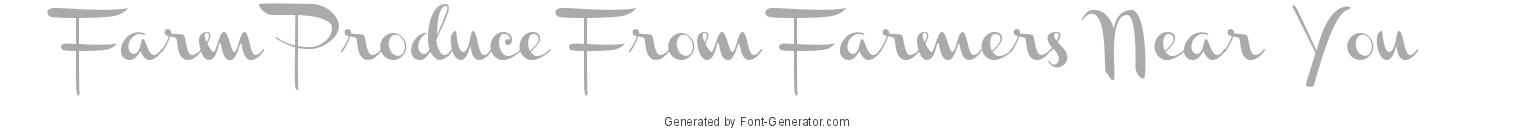
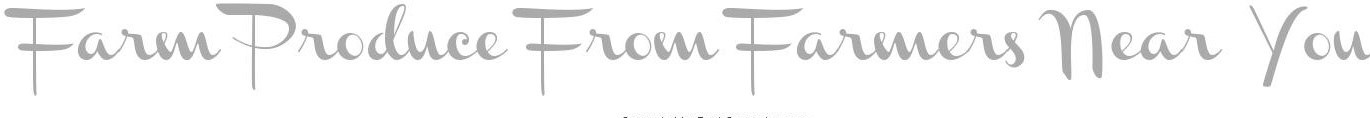
index page

diff --git a/style.css b/style.css
@@ -199,42 +199,19 @@ header .nav-login a {
     text-align:center;
 }
 
-.example0 {
-    background: url(image/short.jpg);
-    width: 192px;
-    height: 260px;
-    top:65%;
-    left:90%;
-    background-repeat: no-repeat;
-    align-content: center;
-    position: absolute;
-    transform: translate(-50%, -50%);
-    box-sizing: border-box;
-    padding: 70px 30px;
+.farm img{
+    height: auto;
+    max-width: 100%;
+    /* padding: 1px; */
+    size: 100%;
 }
-.example1 {
-    background: url(image/gen6.jpg);
-    width: 1420px;
-    height: 140px;
-    background-repeat: no-repeat;
-    align-content: center;
+.mpro img{}
+.m-p img{
     position: absolute;
-    top: 10%;
-    left:-5%;
-}
-.example2 {
-    width: 1120px;
-    height: 90px;
-    top: 40%;
-    left: 50%;
-    background: url(image/generatedtext.jpg);
-    background-repeat: no-repeat;
-    align-content: center;
-    position: absolute;
-    transform: translate(-50%, -50%);
-    box-sizing: border-box;
-    padding: 70px 30px;
-}
+    right: 80px;
+    width:200px;
+    height:100px;
+    }
 
 /*Signup.php*/
 

diff --git a/index.php b/index.php
@@ -4,10 +4,16 @@
 
 	<section class = "main-container">
 		<div class = "main-wrapper"></div>
-		<div class="example1"></div>
+		<div class="farm">
+			<img src="image/gen6.jpg" alt="descrip">
+		</div>
 		<div class="main-body">
-			<div class="example0"></div>
-			<div class="example2"></div>
+			<div class="mpro">
+				<img src="image/generatedtext.jpg" alt="name">
+			</div>
+			<div class="m-p">
+				<img src="image/short.jpg" alg="logo">
+			</div>
 			
 			<?php
 
